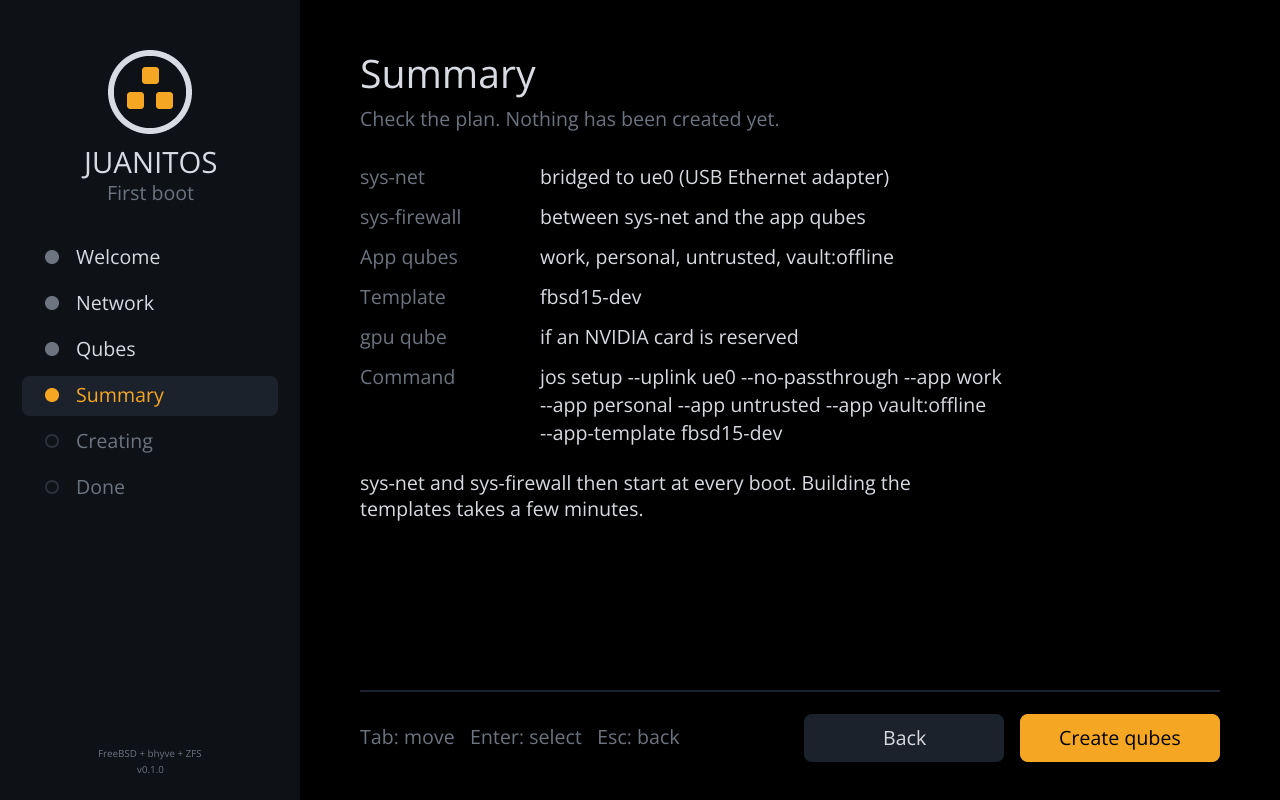
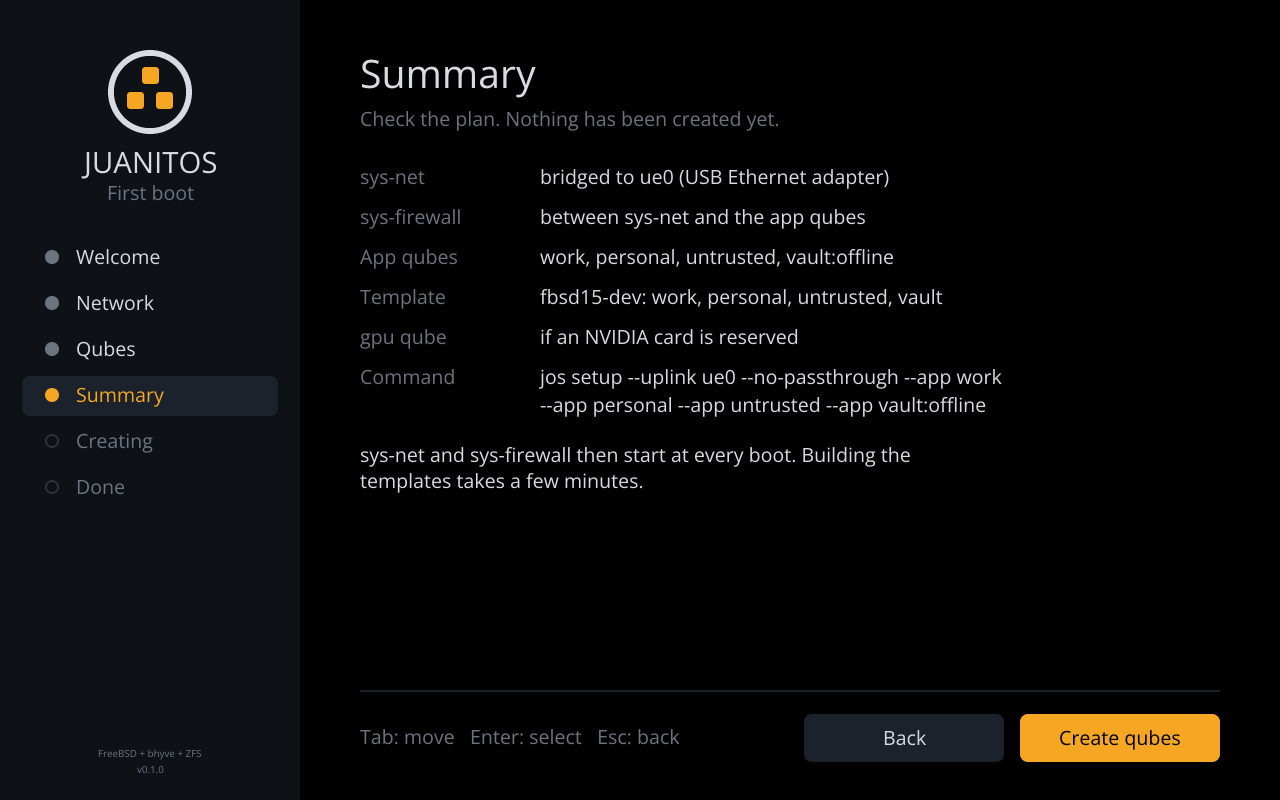
firstboot: Pick the template of each app qube
The Qubes page edits the template of the app under the cursor, and each
row shows its template. The Summary groups the apps by template. The
command no longer sends a global --app-template; an app with a
non-default template gets --app NAME@RECIPE.

Changed region(s): [[0.2812, 0.5312, 0.7188, 0.6562], [0.5, 0.3438, 0.7188, 0.375]]

diff --git a/crates/jos-firstboot/src/wizard.rs b/crates/jos-firstboot/src/wizard.rs
@@ -144,11 +144,12 @@ pub struct Wizard {
     pub iommu: bool,
     /// Pass the card through rather than bridge it (when it can be).
     pub passthrough: bool,
-    /// Every proposed app qube, ticked or not.
+    /// Every proposed app qube, ticked or not. Its template is the
+    /// default unless the operator picked another one for it.
     pub apps: Vec<(AppSpec, bool)>,
+    /// The app the cursor is on: the Templates list is for it.
     pub app: usize,
     pub templates: Vec<Template>,
-    pub template: usize,
     pub gpu: bool,
     pub(crate) focus: usize,
     pub run: RunState,
@@ -174,10 +175,6 @@ impl Wizard {
                 local: local.iter().any(|l| l == r.name),
             })
             .collect();
-        let template = templates
-            .iter()
-            .position(|t| t.name == setup::APP_TEMPLATE)
-            .unwrap_or(0);
         let mut w = Wizard {
             page: Page::Welcome,
             ifaces: Vec::new(),
@@ -190,7 +187,6 @@ impl Wizard {
                 .collect(),
             app: 0,
             templates,
-            template,
             gpu: true,
             focus: 0,
             run: RunState::Idle,
@@ -332,7 +328,11 @@ impl Wizard {
                 self.iface = Some(moved(self.iface.unwrap_or(0), self.ifaces.len()));
             }
             Some(Widget::Apps) => self.app = moved(self.app, self.apps.len()),
-            Some(Widget::Templates) => self.template = moved(self.template, self.templates.len()),
+            Some(Widget::Templates) if !self.templates.is_empty() => {
+                let current = self.selected_template().unwrap_or(0);
+                self.pick_template(moved(current, self.templates.len()));
+            }
+            Some(Widget::Templates) => {}
             _ => self.focus_by(delta),
         }
     }
@@ -393,10 +393,35 @@ impl Wizard {
             }
             Target::Template(i) => {
                 self.focus_on(Widget::Templates);
-                self.template = i;
+                self.pick_template(i);
             }
         }
         Action::None
+    }
+
+    /// The recipe app `app` is cloned from: its own, else the default.
+    pub fn recipe_of(&self, app: usize) -> &str {
+        self.apps
+            .get(app)
+            .and_then(|(a, _)| a.template.as_deref())
+            .unwrap_or(setup::APP_TEMPLATE)
+    }
+
+    /// Index in [`Wizard::templates`] of the recipe the cursor app uses.
+    pub fn selected_template(&self) -> Option<usize> {
+        let recipe = self.recipe_of(self.app);
+        self.templates.iter().position(|t| t.name == recipe)
+    }
+
+    /// Clone the cursor app from template `index`. The default recipe is
+    /// kept implicit, so the command line only names the others.
+    fn pick_template(&mut self, index: usize) {
+        let Some(name) = self.templates.get(index).map(|t| t.name) else {
+            return;
+        };
+        if let Some((app, _)) = self.apps.get_mut(self.app) {
+            app.template = (name != setup::APP_TEMPLATE).then(|| name.to_string());
+        }
     }
 
     fn toggle_app(&mut self) {
@@ -455,9 +480,6 @@ impl Wizard {
         for (app, _) in self.apps.iter().filter(|(_, on)| *on) {
             a.extend(["--app".to_string(), app.to_string()]);
         }
-        if let Some(t) = self.templates.get(self.template) {
-            a.extend(["--app-template".to_string(), t.name.to_string()]);
-        }
         a
     }
 
@@ -478,17 +500,40 @@ impl Wizard {
             .apps
             .iter()
             .filter(|(_, on)| *on)
-            .map(|(a, _)| a.to_string())
+            .map(|(a, _)| match a.network {
+                true => a.name.clone(),
+                false => format!("{}:offline", a.name),
+            })
             .collect();
         let apps = if apps.is_empty() {
             "none".to_string()
         } else {
             apps.join(", ")
         };
-        let template = match self.templates.get(self.template) {
-            Some(t) if t.local => t.name.to_string(),
-            Some(t) => format!("{} (its image is not on this disk)", t.name),
-            None => "none".to_string(),
+        let mut by_recipe: Vec<(&str, Vec<&str>)> = Vec::new();
+        for (i, (app, _)) in self.apps.iter().enumerate().filter(|(_, (_, on))| *on) {
+            let recipe = self.recipe_of(i);
+            match by_recipe.iter_mut().find(|(r, _)| *r == recipe) {
+                Some((_, names)) => names.push(&app.name),
+                None => by_recipe.push((recipe, vec![&app.name])),
+            }
+        }
+        let template = if by_recipe.is_empty() {
+            "none".to_string()
+        } else {
+            by_recipe
+                .iter()
+                .map(|(recipe, names)| {
+                    let off_disk = self.templates.iter().any(|t| t.name == *recipe && !t.local);
+                    let note = if off_disk {
+                        " (its image is not on this disk)"
+                    } else {
+                        ""
+                    };
+                    format!("{recipe}: {}{note}", names.join(", "))
+                })
+                .collect::<Vec<_>>()
+                .join("; ")
         };
         let gpu = if self.gpu {
             "if an NVIDIA card is reserved"
@@ -611,9 +656,9 @@ pub(crate) mod tests {
     #[test]
     fn the_keyboard_walks_to_the_setup() {
         let mut w = Wizard::new(sample_ifaces(), false, &local());
-        // The USB adapter with a cable is preselected; the fbsd15 template.
+        // The USB adapter with a cable is preselected; the apps use fbsd15.
         assert_eq!(w.selected_iface().unwrap().name, "ue0");
-        assert_eq!(w.templates[w.template].name, "fbsd15-dev");
+        assert_eq!(w.recipe_of(0), "fbsd15-dev");
         assert_eq!(w.focused(), Some(Widget::Next));
         assert_eq!(w.next_label(), "Next");
         w.handle(Key::Enter);
@@ -643,16 +688,19 @@ pub(crate) mod tests {
         w.handle(Key::Up);
         assert_eq!(w.handle(Key::Enter), Action::None);
         assert_eq!(w.page, Page::Qubes);
-        // Untick personal, pick the Debian template, no gpu qube.
+        // Untick personal, clone untrusted from the Debian template, no
+        // gpu qube.
         assert_eq!(w.focused(), Some(Widget::Next));
         keys(&mut w, &[Key::Tab, Key::Down, Key::Char(' ')]);
         assert!(!w.apps[1].1);
-        keys(&mut w, &[Key::Tab, Key::Up, Key::Tab, Key::Char(' ')]);
-        assert_eq!(w.templates[w.template].name, "debian-13-dev");
+        keys(&mut w, &[Key::Down, Key::Tab, Key::Up]);
+        assert_eq!(w.recipe_of(2), "debian-13-dev");
+        assert_eq!(w.recipe_of(0), "fbsd15-dev", "the other apps keep theirs");
+        keys(&mut w, &[Key::Tab, Key::Char(' ')]);
         assert!(!w.gpu);
         // Space on the template list does nothing more.
         keys(&mut w, &[Key::BackTab, Key::Char(' ')]);
-        assert_eq!(w.templates[w.template].name, "debian-13-dev");
+        assert_eq!(w.recipe_of(2), "debian-13-dev");
         w.handle(Key::Enter);
         assert_eq!(w.page, Page::Summary);
         assert_eq!(w.next_label(), "Create qubes");
@@ -662,10 +710,13 @@ pub(crate) mod tests {
             "{rows:?}"
         );
         assert_eq!(rows[2].1, "work, untrusted, vault:offline");
-        assert_eq!(rows[3].1, "debian-13-dev (its image is not on this disk)");
+        assert_eq!(
+            rows[3].1,
+            "fbsd15-dev: work, vault; debian-13-dev: untrusted (its image is not on this disk)"
+        );
         assert_eq!(rows[4].1, "no");
         let args = "setup --uplink ue0 --no-passthrough --no-gpu --app work \
-                    --app untrusted --app vault:offline --app-template debian-13-dev";
+                    --app untrusted@debian-13-dev --app vault:offline";
         assert_eq!(rows[5].1, format!("jos {args}"));
         // Esc goes back, Enter comes again; Space presses Create qubes.
         w.handle(Key::Esc);
@@ -776,22 +827,39 @@ pub(crate) mod tests {
         }
         assert_eq!(w.focused(), Some(Widget::Apps));
         assert_eq!(w.summary_rows()[2].1, "none");
-        w.click(Target::Template(1));
+        // The template list is for the cursor app (vault): Debian for it
+        // only.
+        w.click(Target::Template(0));
         assert_eq!(w.focused(), Some(Widget::Templates));
-        assert_eq!(w.summary_rows()[3].1, "fbsd15-dev");
+        assert_eq!(w.recipe_of(3), "debian-13-dev");
+        assert_eq!(w.recipe_of(0), "fbsd15-dev");
         assert_eq!(w.summary_rows()[4].1, "if an NVIDIA card is reserved");
+        // Clicking an app ticks it and moves the cursor to it.
+        w.click(Target::App(0));
+        assert_eq!(w.selected_template(), Some(1));
         w.click(Target::Widget(Widget::Gpu));
         assert!(!w.gpu);
         w.click(Target::Widget(Widget::Apps));
-        assert!(w.apps[3].1);
-        // No app under the cursor: nothing to tick.
+        assert!(!w.apps[0].1, "Space on the list unticks the cursor app");
+        // No app under the cursor: nothing to tick, nothing to clone.
         w.app = w.apps.len();
         w.click(Target::Widget(Widget::Apps));
-        assert!(w.apps.iter().filter(|(_, on)| *on).count() == 1);
-        // A template list without a selection (no recipe found).
+        assert_eq!(w.apps.iter().filter(|(_, on)| *on).count(), 0);
+        w.click(Target::Template(0));
+        assert_eq!(
+            w.apps.iter().filter(|(a, _)| a.template.is_some()).count(),
+            1
+        );
+        // A template list without a recipe: the apps keep their names.
+        w.click(Target::App(0));
         w.templates.clear();
-        assert_eq!(w.summary_rows()[3].1, "none");
+        assert_eq!(w.summary_rows()[3].1, "fbsd15-dev: work");
         assert!(!w.setup_args().contains(&"--app-template".to_string()));
+        // Nothing to pick or move to.
+        w.click(Target::Template(0));
+        w.handle(Key::Up);
+        assert_eq!(w.focused(), Some(Widget::Templates));
+        assert_eq!(w.selected_template(), None);
     }
 
     #[test]

diff --git a/crates/jos-firstboot/src/ui.rs b/crates/jos-firstboot/src/ui.rs
@@ -427,10 +427,14 @@ fn qubes(c: &mut Canvas, w: &Wizard) {
     title(
         c,
         "Qubes",
-        "The app qubes to create, and the template they are cloned from.",
+        "The app qubes to create, and the template each one is cloned from.",
     );
     c.text(CONTENT_X, BODY_Y, "App qubes", 2, THEME.accent);
-    c.text(RIGHT_X, BODY_Y, "Template", 2, THEME.accent);
+    let for_app = match w.apps.get(w.app) {
+        Some((app, _)) => format!("Template of {}", app.name),
+        None => "Template".to_string(),
+    };
+    c.text_clip(RIGHT_X, BODY_Y, &for_app, 2, HALF_W, THEME.accent);
     let apps_focused = w.focused() == Some(Widget::Apps);
     let mut y = BODY_Y + 36;
     for (i, (app, on)) in w.apps.iter().enumerate() {
@@ -439,18 +443,19 @@ fn qubes(c: &mut Canvas, w: &Wizard) {
         c.boxed(CONTENT_X, y, HALF_W, ROW_H, border, THEME.highlight);
         c.hit(CONTENT_X, y, HALF_W, ROW_H, Target::App(i));
         tick_box(c, CONTENT_X + 14, y + 14, *on, THEME.text_muted);
-        c.text_clip(CONTENT_X + 56, y + 18, &app.name, 2, 160, THEME.text);
+        c.text_clip(CONTENT_X + 56, y + 8, &app.name, 2, 160, THEME.text);
         let net = if app.network {
             "via sys-firewall"
         } else {
             "offline"
         };
+        let line = format!("{net}, {}", w.recipe_of(i));
         c.text_clip(
-            CONTENT_X + 220,
-            y + 18,
-            net,
-            2,
-            HALF_W - 230,
+            CONTENT_X + 56,
+            y + 34,
+            &line,
+            1,
+            HALF_W - 70,
             THEME.text_muted,
         );
         y += ROW_PITCH;
@@ -458,9 +463,10 @@ fn qubes(c: &mut Canvas, w: &Wizard) {
     let gpu_y = y + 30;
 
     let templates_focused = w.focused() == Some(Widget::Templates);
+    let chosen = w.selected_template();
     let mut y = BODY_Y + 36;
     for (i, t) in w.templates.iter().enumerate() {
-        let selected = i == w.template;
+        let selected = chosen == Some(i);
         let border = row_border(selected, templates_focused);
         c.boxed(RIGHT_X, y, HALF_W, ROW_H, border, THEME.highlight);
         c.hit(RIGHT_X, y, HALF_W, ROW_H, Target::Template(i));
@@ -474,7 +480,7 @@ fn qubes(c: &mut Canvas, w: &Wizard) {
         c.text_clip(RIGHT_X + 260, y + 18, label, 2, HALF_W - 270, colour);
         y += ROW_PITCH;
     }
-    if let Some(t) = w.templates.get(w.template) {
+    if let Some(t) = chosen.and_then(|i| w.templates.get(i)) {
         for line in wrap(t.summary, 32).iter().take(4) {
             c.text(RIGHT_X, y + 6, line, 2, THEME.text_muted);
             y += 26;
@@ -889,6 +895,9 @@ mod tests {
         let _ = frame(&w);
         // No template recipe at all.
         w.templates.clear();
+        let _ = frame(&w);
+        // The cursor past the last app: no template of its own to show.
+        w.app = w.apps.len();
         let _ = frame(&w);
     }
 

diff --git a/docs/architecture.md b/docs/architecture.md
@@ -138,9 +138,12 @@ Anaconda. It is a front end to `jos setup`, drawn like the installer:
    cannot be the uplink yet. The dom0 never gets an address and never
    runs `dhclient`: only `sys-net` talks to the network.
 2. **Qubes**: the app qubes to create (`work`, `personal`, `untrusted`,
-   and `vault` offline; `--app NAME[:offline]`), the template they clone
-   (`--app-template`, `fbsd15-dev` by default, whose image is on the
-   media) and whether a reserved NVIDIA card gets a `gpu` qube.
+   and `vault` offline; `--app NAME[:offline][@RECIPE]`). Each app picks
+   its own template from the list (the Summary warns about a template whose
+   image is not on the disk). Apps that name no
+   template use `--app-template`, `fbsd15-dev` by default, whose image is
+   on the media. Whether a reserved NVIDIA card gets a `gpu` qube is
+   asked too.
 3. **Summary**: the plan in words, and the exact `jos setup` command.
 4. **Creating**: `jos setup` runs as a child process; its `==> [i/n]`
    steps drive the progress bar, the whole output goes to
